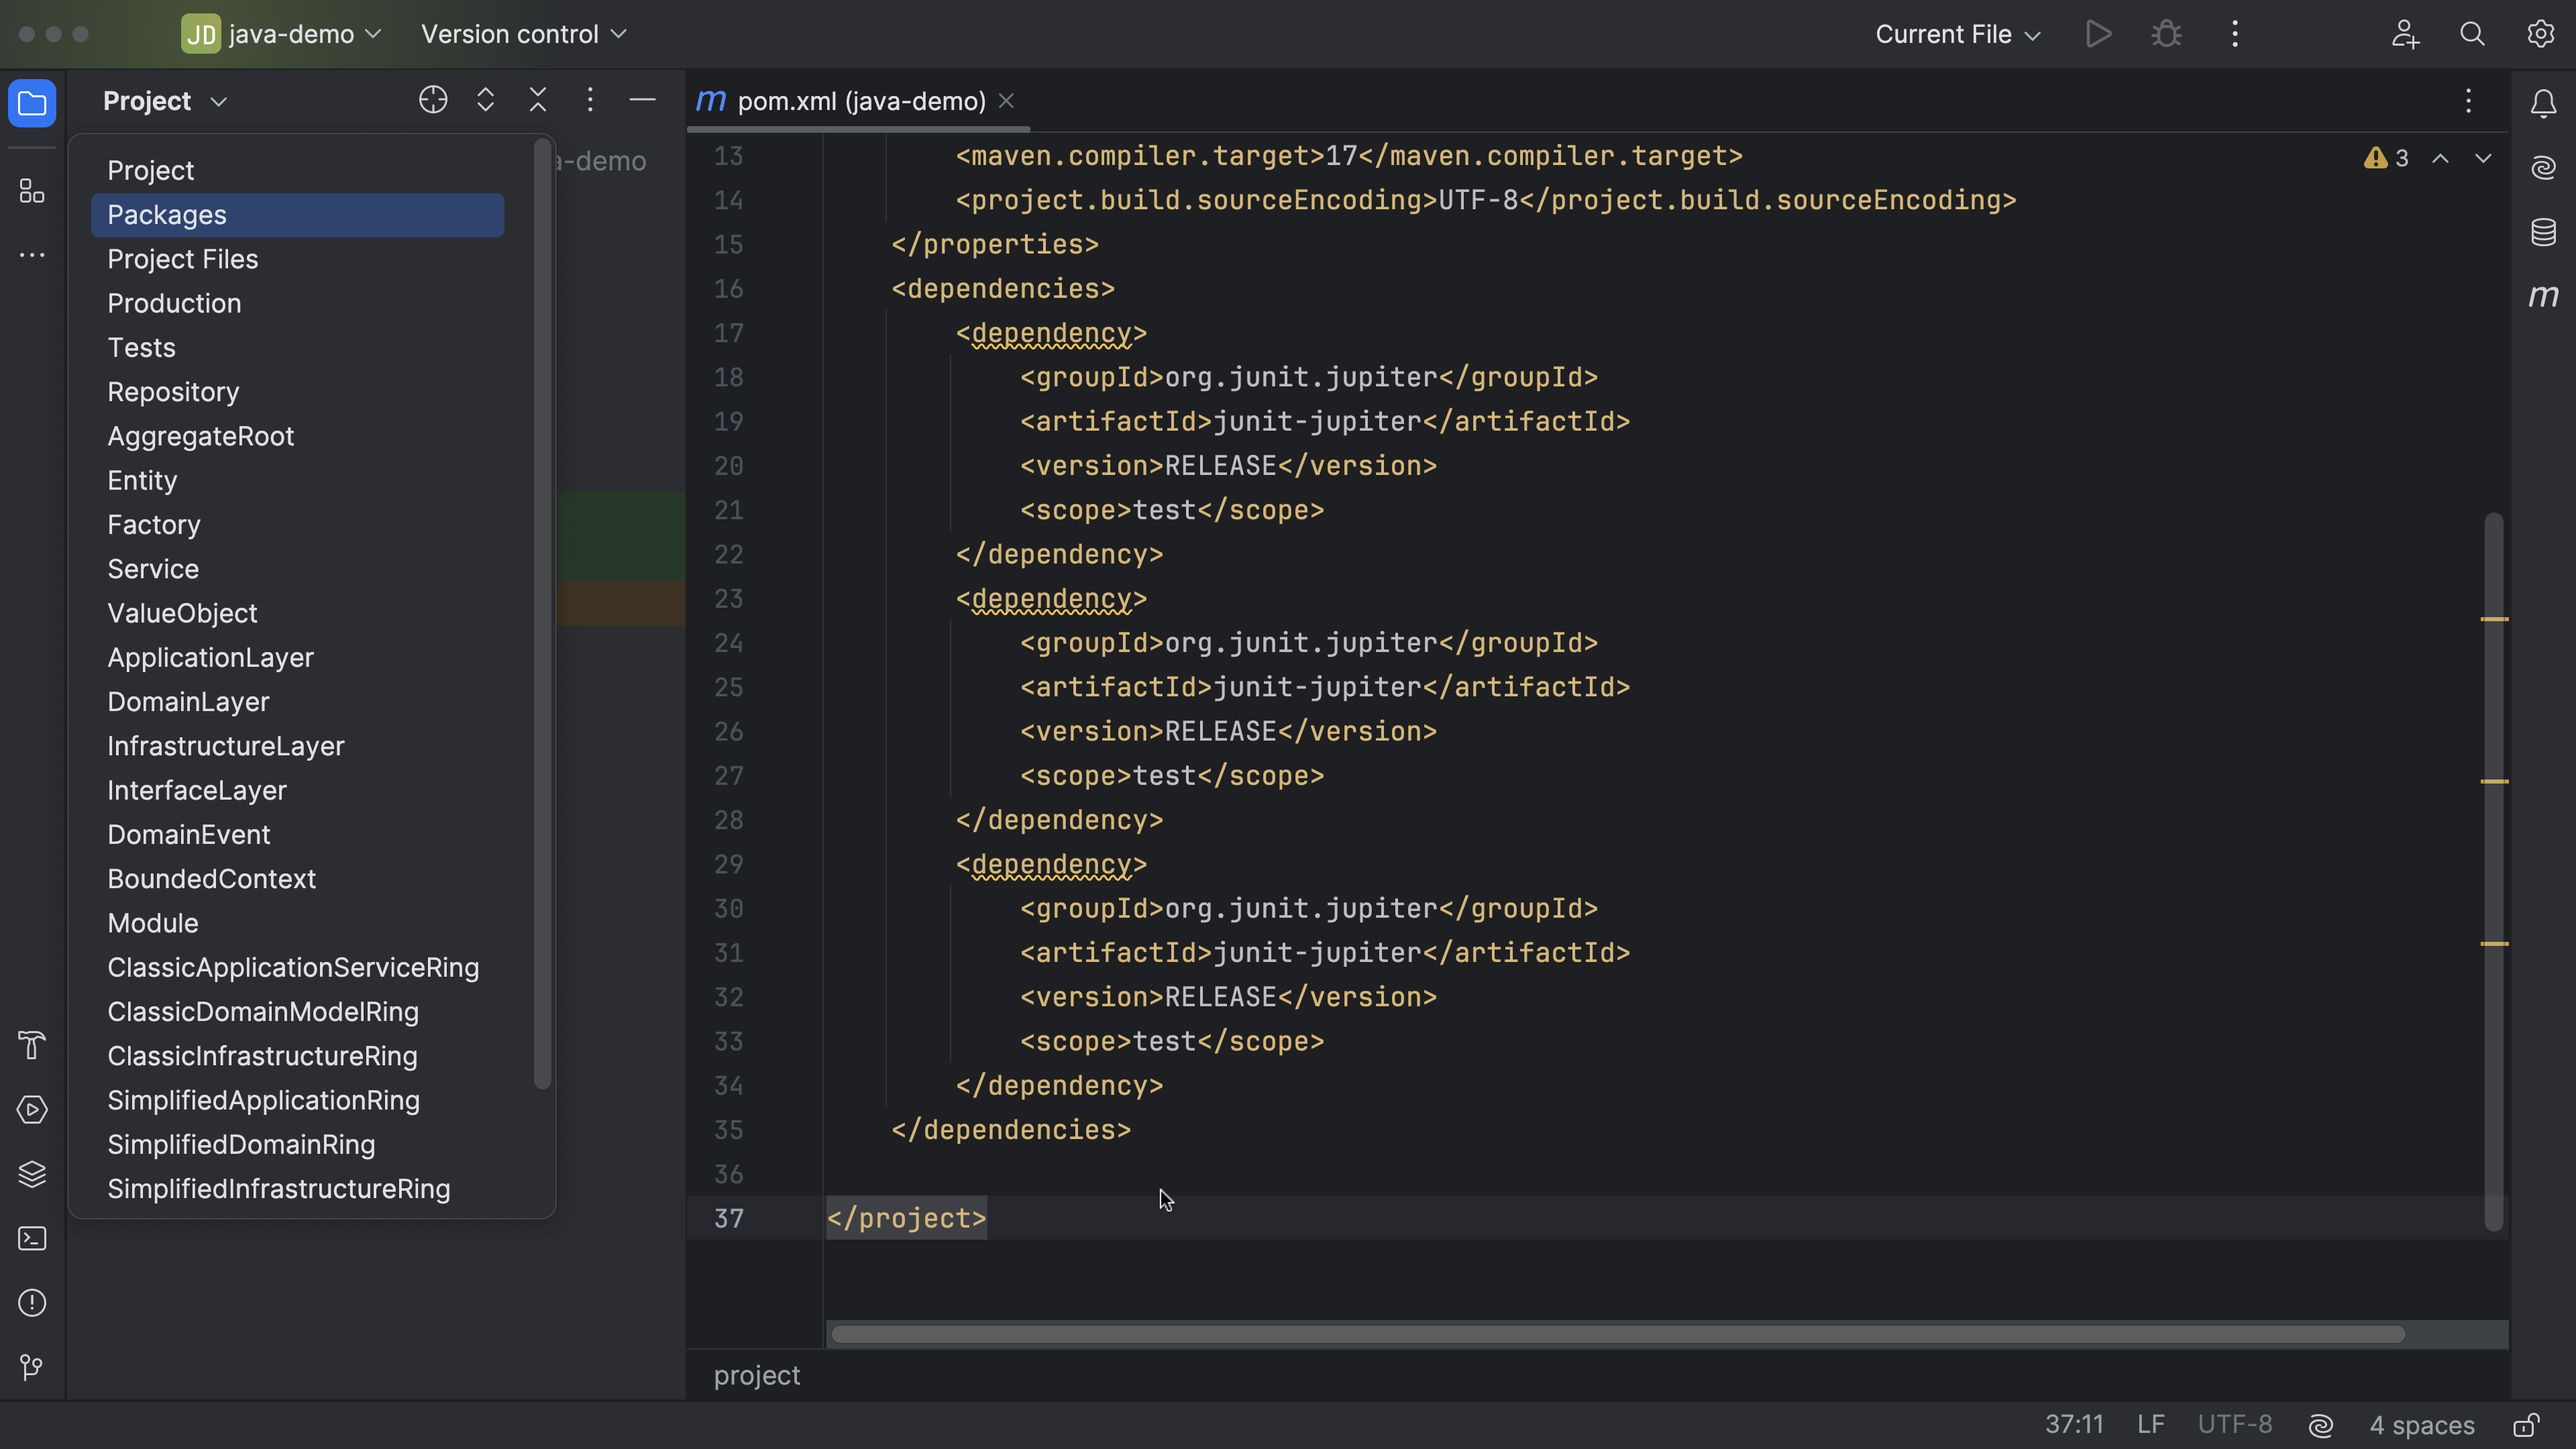
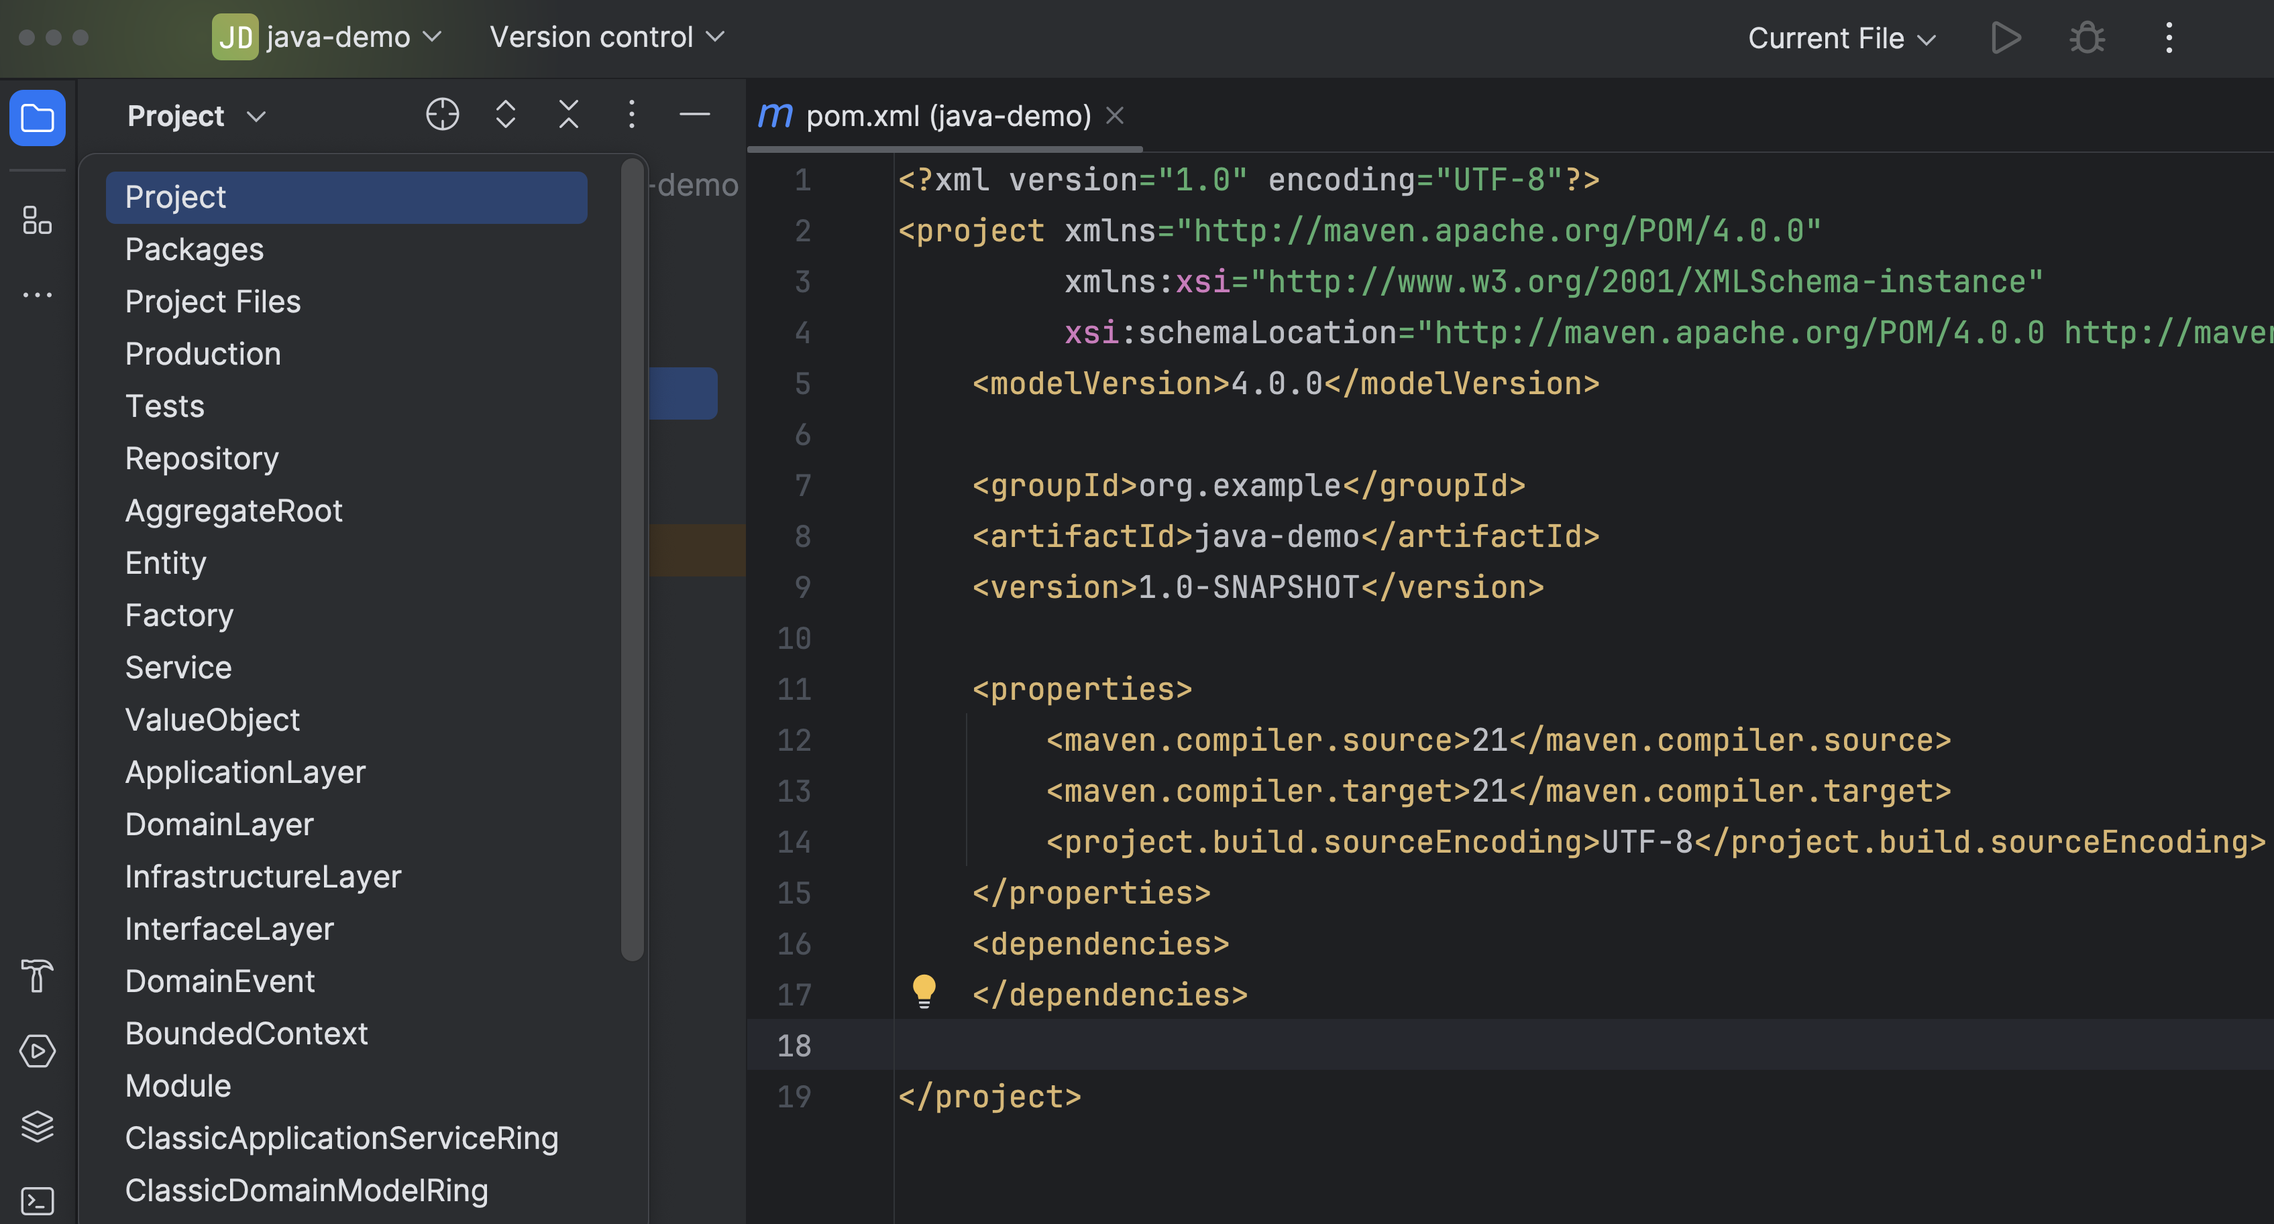
Changes based on internal review and review comments

diff --git a/app/pages/learn/01_tutorial/01_your-first-java-app/02_building-with-intellij-idea.md b/app/pages/learn/01_tutorial/01_your-first-java-app/02_building-with-intellij-idea.md
@@ -21,30 +21,29 @@ toc:
 - Refactoring code
 - Documenting code
 - Searching and navigating
-- Version Control
 - Evolving the project
 - More information
 description: "IntelliJ IDEA is the most used Java IDE and helps you develop your Maven and Gradle Java projects faster."
 last_update: 2024-03-12
 ---
 
-An IDE (Integrated Development Environment) allows you to quickly build applications, by integrating a source-code editor with the ability to compile and run your code, as well as integration with any other tools you’ll need for software development, including build tools, testing and debugging tools, version control, databases, and so on. And finally, an IDE will let you search and navigate your codebase in ways your file system won’t.
+An IDE (Integrated Development Environment) allows you to quickly build applications, by integrating a source-code editor with the ability to compile and run your code, as well as integration with  tools you’ll need for software development, including build tools, testing and debugging tools, version control, and so on. And finally, an IDE will let you search and navigate your codebase in ways your file system won’t.
 
-IntelliJ IDEA is the [most widely used IDE for Java developers](https://www.jetbrains.com/lp/devecosystem-2023/java/#java_ide). It has out-of-the-box integrations with all the tools a Java developer will need for software development, with no need to install any additional plugins to get started.
+IntelliJ IDEA is the [most widely used IDE for Java developers](https://www.jetbrains.com/lp/devecosystem-2023/java/#java_ide). It has out-of-the-box integrations with the tools a Java developer will need for software development, with no need to install any additional plugins to get started.
 IntelliJ IDEA is available in two editions:
-- **_IntelliJ IDEA Community Edition_** - free and open-source, licensed under Apache 2.0. It provides all the basic features for Java and Kotlin development.
+- **_IntelliJ IDEA Community Edition_** - free and open-source. It provides all the basic features for Java development.
 - **_IntelliJ IDEA Ultimate_** - commercial, distributed with a 30-day trial period. It provides additional tools and features for web and enterprise development.
 
 ## Installing IntelliJ IDEA
 To install IntelliJ IDEA, download the version you want to use from the [IntelliJ IDEA website](https://www.jetbrains.com/idea/) and follow the instructions. For more information on installing IntelliJ IDEA on your OS, see [the documentation](https://www.jetbrains.com/help/idea/installation-guide.html#standalone).
 
-When you launch IntelliJ IDEA for the first time, you’ll see the **Welcome** screen. From here, you create a new project, open an existing project, or get a project from a version control system.
+When you launch IntelliJ IDEA for the first time, you’ll see the **Welcome** screen. From here, you create a new project, open an existing project, or get a project from a version control system (like GitHub).
 
 [![Welcome screen](/assets/images/intellij-idea/welcome-screen.png)](/assets/images/intellij-idea/welcome-screen.png)
 
 There is no need to install any additional plugins to get started; the most common integrations are already available as part of the IDE or as bundled plugins. Of course, you can [customize the IDE](https://www.jetbrains.com/help/idea/run-for-the-first-time.html#select-ui-theme) further, or [install additional plugins](https://www.jetbrains.com/help/idea/run-for-the-first-time.html#additional_plugins) if you really want to.
 
-You will need to install a JDK, if you don’t already have one installed. You can take care of that when creating a project.
+You will need to install a JDK, if you don’t already have one installed. You can do this yourself, as described in [Getting Started with Java](https://dev.java/learn/getting-started/#setting-up-jdk), or you can do so in IntelliJ IDEA when creating a new project, without having to switch from your IDE and other tools (such as your browser, file system, etc.) to download and configure a JDK.
 
 ## Creating a new project
 As mentioned above, we can create a new project from the **Welcome** screen. Alternatively, we can go to **File | New | Project** in the main menu.
@@ -53,7 +52,7 @@ As mentioned above, we can create a new project from the **Welcome** screen. Alt
 
 In the **New Project** wizard, make sure that **New Project** is selected on the left hand side.
 
-Give your project a name (for example `java-demo`), make sure the selected **Language** is `Java`, and select the **Build system** you prefer. For example, let’s create a Maven project.
+Give your project a name (for example `java-demo`), make sure the selected **Language** is `Java`, and select the **Build system** you prefer. For example, let’s create a Maven project. A build tool, like Maven or Gradle, helps you build your project, and manage any dependencies, like additional libraries you want to use in your Java code.
 
 [![New Project](/assets/images/intellij-idea/new-project.png)](/assets/images/intellij-idea/new-project.png)
 
@@ -81,10 +80,12 @@ To simplify the view on your project, for example to focus on the package struct
 
 [![Project view](/assets/images/intellij-idea/project-view.png)](/assets/images/intellij-idea/project-view.png)
 
-Let’s add some code. We’ll start by creating a new class. In the **Project** tool window on the left, select the directory `src/main/java`. Add a new Java file using the shortcut **⌘N** (on macOS) or **Alt+Insert** (on Windows/Linux). Alternatively, right-click the **Project** tool window to open the context menu and select **New | Java class**. Name this class `Main`.
+Let’s add some code. We’ll start by creating a new class. In the **Project** tool window on the left, select the directory `src/main/java`. Add a new Java file using the shortcut **⌘N** (on macOS) or **Alt+Insert** (on Windows/Linux). Alternatively, right-click the **Project** tool window to open the context menu and select **New | Java class**. Name this class `HelloWorld`.
+
+[![New Java class](/assets/images/intellij-idea/new-java-class.png)](/assets/images/intellij-idea/new-java-class.png)
 
 ## Writing and editing code
-Inside the class `Main`, we will write the main method, which is where execution of our Java program will start.
+Inside the class `HelloWorld`, we will write the main method, which is where execution of our Java program will start.
 The classic way to write a main method in Java is:
 ```shell
 public static void main(String[] args) {
@@ -113,8 +114,6 @@ Now we can write the desired code inside the main method. We can use another liv
 
 [![Hello World](/assets/images/intellij-idea/hello-world.png)](/assets/images/intellij-idea/hello-world.png)
 
-There are several predefined live templates, and you can also [create your own](https://www.jetbrains.com/help/idea/creating-and-editing-live-templates.html).
-
 IntelliJ IDEA will manage the formatting of your code as you write it. If needed, you can explicitly reformat the code, using the shortcut **⌘⌥L** (on macOS) or **Ctrl+Alt+L** (on Windows/Linux).
 
 ## Running your application
@@ -124,7 +123,7 @@ You can run our application directly from the editor, by clicking the green run 
 
 Alternatively, we can run our application using the green Run button in the top right corner, or using the shortcut **⌃R** (on macOS) or **Ctrl+F10** (on Windows/Linux) to run the latest file.
 
-[![Run](/assets/images/intellij-idea/run-button.png)](/assets/images/intellij-idea/run-button.png)
+[![Run](/assets/images/intellij-idea/run.png)](/assets/images/intellij-idea/run.png)
 
 If we want to pass arguments to our application, we can do so in our [Run Configurations](https://www.jetbrains.com/help/idea/run-debug-configuration.html).
 
@@ -148,7 +147,7 @@ If JUnit5 is not part of your project yet, IntelliJ IDEA will note “JUnit5 lib
 
 [![Create test - Fix](/assets/images/intellij-idea/create-test-fix.png)](/assets/images/intellij-idea/create-test-fix.png)
 
-Note that JUnit5 dependencies are added to the pom.xml.
+Note that the JUnit5 dependency is added to the pom.xml.
 
 [![JUnit5 dependencies](/assets/images/intellij-idea/junit5-dependencies.png)](/assets/images/intellij-idea/junit5-dependencies.png)
 
@@ -157,7 +156,7 @@ Go back to the test file to add tests. We can let IntelliJ IDEA help us generate
 In our test class, we can select **Run All Tests** (**⌃⇧R** on macOS or **Ctrl+Shift+F10** on Windows/Linux).
 While it’s nice to see our tests pass, we also want to make sure that they fail when something is wrong. Make some changes to your code that will make your tests fail, and run them again to see them fail. Revert those changes to see them pass again.
 
-We can view the code and tests side by side. To do so, click on the tab with the test file, and select **Move and Split right**.
+We can view the code and tests side by side. To do so, click on the tab with the test file, and select **Move and Split right**. This can be especially helpful if you're doing [test-driven development (TDD)](https://martinfowler.com/bliki/TestDrivenDevelopment.html).
 
 ## Debugging
 We might want to see how our code runs, either to help us understand how it works and/or when we need to fix a bug. We can run our code through the [debugger](https://www.jetbrains.com/help/idea/debugging-code.html) to see the state of our variables at different times, and the call stack - or the order in which methods are called when the program executes. To do so, we must first add a [breakpoint](https://www.jetbrains.com/help/idea/using-breakpoints.html) to the code.
@@ -165,6 +164,8 @@ We might want to see how our code runs, either to help us understand how it work
 To add a breakpoint, click the gutter at the line of code where you want execution to stop. Alternatively, place the caret at the line and press **⌃F8** (on macOS) or **Ctrl+F8** (on Windows/Linux). We can run our test or application using the **Debug** option.
 
 Execution will stop at the breakpoint, so we can investigate the state of our application. We can see current values of variables and objects. We can evaluate an expression, to see its current value and look at more details. We can even change the expressions to evaluate different results. We can continue execution by either stepping into a method to see what happens inside a called method (using the shortcut **F7**) or stepping over a line to go to the next line even if a method is called (using the shortcut **F8**), depending on what we’re interested in. Finally, we can resume the program to finish the execution of the test.
+
+For more information on debugging, see [Debugging in Java](https://dev.java/learn/debugging/)
 
 ## Refactoring code
 
@@ -193,25 +194,10 @@ Open Find in Files from the main menu using **Edit | Find | Find in Files**, or 
 
 [![Find in Files](/assets/images/intellij-idea/search-everywhere.png)](/assets/images/intellij-idea/find-in-files.png)
 
-## Version Control
-Once you have finished a piece of code (and the related tests and documentation), you might want to commit your code. IntelliJ IDEA offers integration with version control systems, like Git.
-
-If you haven’t set up version control for your project, you’ll need to do that first. You can enable VCS from the main menu using **VCS | Enable Version Control Integration**.
-
-[![Enable Version Control Integration](/assets/images/intellij-idea/enable-vcs-popup.png)](/assets/images/intellij-idea/enable-vcs-popup.png)
-
-In the popup that opens, select your preferred version control system.
-
-[![VCS Enable menu](/assets/images/intellij-idea/vcs-enable-menu.png)](/assets/images/intellij-idea/vcs-enable-menu.png)
-
-To use Git, you may need to [install Git](https://git-scm.com/book/en/v2/Getting-Started-Installing-Git) on your machine first.
-
-To commit your code, open the commit tool window using the shortcut **⌘0** (on macOS) or **Alt+0** (on Windows/Linux), select the code to commit, write a commit message, and click **Commit** or **Commit and Push**, depending on whether you want to push to your remote repository straight away.
-
 ## Evolving the project
 In the future, you might want to add functionality to your project. We’ve seen how intelliJ IDEA can help you with code suggestions and completion while writing code, running your application, adding tests and using the debugger to help figure out how code is run, refactoring code, and more.
 
-You may want to upgrade the version of Java your project uses, or any dependencies used in your project. You can manage and update your dependencies using the [Package Search](https://www.jetbrains.com/help/idea/package-search.html) plugin, see information about any known vulnerabilities in your dependencies using the [Package Checker](https://www.jetbrains.com/help/idea/package-analysis.html) plugin, and even see whether you’re using the vulnerable API using the [Vulnerable API usage](https://www.jetbrains.com/help/idea/package-analysis.html#find-vulnerable-api) inspection. You can use [the Migrate refactoring](https://www.jetbrains.com/help/idea/migrate.html) to help update your code to new versions if needed.
+You may want to upgrade the version of Java your project uses, or any dependencies used in your project.
 
 IntelliJ IDEA continues to improve and evolve, adding new features and offering new integration. This includes inspections for new Java language features. [Feedback is welcome](https://youtrack.jetbrains.com/issues/IDEA).
 
